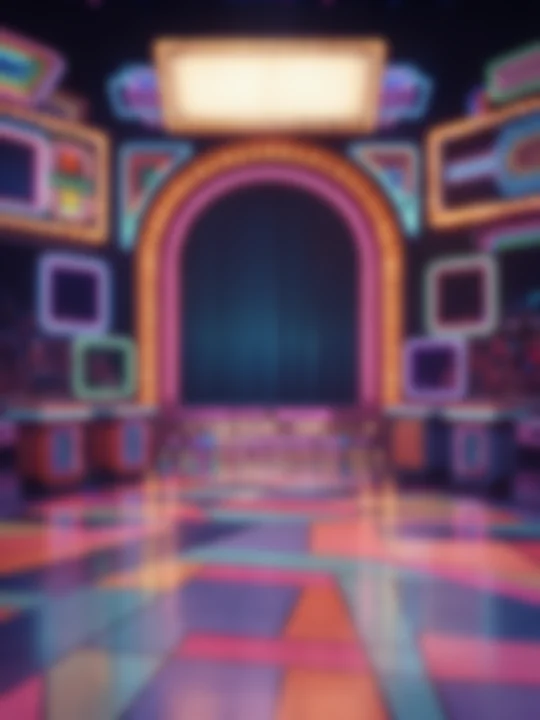
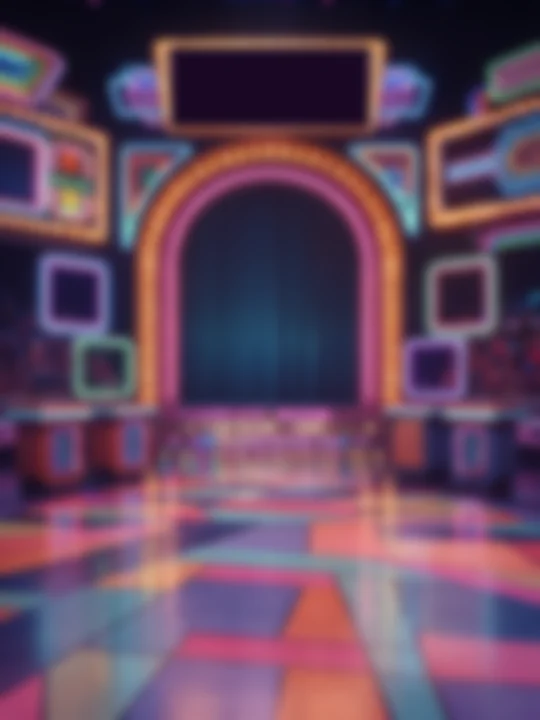
Run 3 item 4, the stage on every screen (the table is in DESIGN.md 'The stage'): landing and menu - close, with a soft scrim where the text and buttons sit; cold open - wide while the curtain opens, then a push in on close as the host walks out (FLIPSTAX on the marquee); act cards and the finale car

Changed region(s): [[0.2963, 0.0306, 0.7111, 0.1833]]

diff --git a/lib/stage.css b/lib/stage.css
@@ -54,3 +54,34 @@
 :root.lite .stg-plate, :root.lite .stg-glow, :root.lite .stg-sweep{ animation:none !important; }
 :root.lite .stg-sweep{ display:none; }
 @media (prefers-reduced-motion: reduce){ .stg-plate, .stg-glow, .stg-sweep{ animation:none !important; } .stg-sweep{ display:none; } }
+
+/* ---- The scenes (DESIGN.md "The stage" has the table). The stage paints just under the overlay it backs
+   (.stage-backed), so that overlay's own set and backdrop step aside; its buttons, cards and text stay as they were. */
+/* landing and menu: the close shot, with a soft scrim at the top and bottom where the text and buttons sit */
+:root.stage-on .home-overlay.stage-backed, :root.stage-on .split-select-overlay.stage-backed{
+  background:linear-gradient(180deg, rgba(14,4,30,0.5) 0%, rgba(14,4,30,0.12) 34%, rgba(14,4,30,0.08) 55%, rgba(14,4,30,0.55) 100%) !important; }
+:root.stage-on .stage-backed > .studio{ display:none; }
+:root.stage-on .show-card.stage-backed{ background:transparent !important; }
+/* the cold open (wide, then a push on the close shot), the act cards (close, the act on the marquee), the Mystery Game
+   door (close): their drawn studio, the act card's dimming scrim and colour sweeps step aside */
+:root.stage-on .show-card.stage-backed .co-studio, :root.stage-on .show-card.stage-backed .mr-studio,
+:root.stage-on .show-card.stage-backed .cue-stage{ display:none; }
+:root.stage-on .show-card.cue.stage-backed:not(.finale)::before{ display:none; }
+:root.stage-on .show-card.cue.stage-backed .cue-wipe > .bg{ opacity:0.85; }
+/* results and the outro: the wide shot under a scrim, so the score panel reads as before */
+:root.stage-on #readoutOverlay.stage-backed{ background:linear-gradient(180deg, rgba(14,4,30,0.5), rgba(14,4,30,0.3) 40%, rgba(14,4,30,0.6)) !important; }
+:root.stage-on #readoutOverlay.stage-backed .warp-bg{ display:none; }
+:root.stage-on .fin-overlay.stage-backed{ background:linear-gradient(180deg, rgba(14,4,30,0.62), rgba(14,4,30,0.45) 40%, rgba(14,4,30,0.7)) !important; }
+
+/* gameplay: the dim shot. The VS screen and the Daily question rounds show the stage layer itself (the world layer
+   above it goes clear); the full-screen game overlays paint the same picture as their own backdrop (the same crop,
+   so nothing jumps), with the same scrim and vignette. Orbit Drop keeps its own look. */
+:root.stage-on .show-bg{ background:none !important; }
+:root.stage-on .show-bg > .rays, :root.stage-on .show-bg > .glow{ display:none; }
+:root.stage-on :is(.mg-overlay, .lucky-overlay, .ir-overlay, .guess-overlay, .solve-overlay, .riddle-overlay),
+:root.stage-on.mode-infinity .event-overlay{
+  background:radial-gradient(120% 90% at 50% 42%, rgba(8,2,20,0) 40%, rgba(8,2,20,0.65) 100%), linear-gradient(rgba(10,3,24,0.55), rgba(10,3,24,0.55)),
+    url(../data/stage/stage-dim.webp) 50% 30% / cover no-repeat, #12062a !important; }
+:root.stage-on :is(.mg-overlay, .ir-overlay, .guess-overlay, .solve-overlay, .event-overlay, .riddle-overlay) :is(.mg-bg, .ir-bg, .guess-bg, .warp-bg, .ev-bg){ background:none !important; }
+:root.stage-on :is(.mg-overlay, .ir-overlay, .guess-overlay, .solve-overlay, .event-overlay, .riddle-overlay) :is(.mg-bg, .ir-bg, .guess-bg, .warp-bg, .ev-bg) > :is(.rays, .glow){ display:none; }
+:root.stage-on .mg-overlay .mg-bg{ display:none; }

diff --git a/flipstax.html b/flipstax.html
@@ -11193,10 +11193,11 @@
     showCard.classList.remove('hidden');
     showCard.setAttribute('role', 'button'); showCard.setAttribute('aria-label', 'Welcome to FlipStax, episode ' + ep + '. Tap to skip');
     showCard.querySelectorAll('.co-sign .sign-bulbs').forEach(b=> ringBulbs(b, 22, 8));
+    if (window.Stage){ Stage.loadWide(); Stage.cue('wide', { over:showCard, cls:'curtain', sign:{ sub:'WELCOME TO', main:'FLIPSTAX' } }); }   // Run 3: the wide shot, then a push in
     const timers = [], later = (ms, f)=> timers.push(setTimeout(f, ms));
     const sign = (cls, on)=>{ const el = showCard.querySelector('.co-sign.' + cls); if (!el) return; el.classList.toggle('on', on); el.classList.toggle('off', !on); };
     later(T.open, ()=>{ showCard.classList.add('open'); if (sfx.bumper) sfx.bumper(false); });
-    later(T.walk, ()=> showCard.classList.add('walk'));
+    later(T.walk, ()=>{ showCard.classList.add('walk'); if (window.Stage) Stage.cue('close', { over:showCard, cls:'curtain', push:true, ms: total - T.walk + 600, sign:{ main:'FLIPSTAX' } }); });   // (the plates below carry the welcome and the episode)
     later(T.s1, ()=>{ sign('w1', true); sfx.chime(4); sfx.chime(6); });
     later(T.s1off, ()=> sign('w1', false));
     later(T.s2, ()=>{ sign('w2', true); sfx.chime(5); sfx.chime(7); });
@@ -11234,6 +11235,7 @@
     showCard.querySelector('.cc-title').textContent = st.title || '';
     showCard.removeAttribute('role'); showCard.setAttribute('aria-label', (st.sub ? st.sub + ': ' : '') + (st.title || ''));
     showCard.classList.remove('hidden');
+    if (window.Stage) Stage.cue('close', { over:showCard, cls:'cue', push:true, ms: cine(TIMING.ACT_CARD_HOLD + (fin ? 300 : 0)), sign:{ sub: st.sub || '', main: st.title || '' } });   // Run 3: the act on the marquee
     clearTimeout(hostSayT); document.getElementById('showSay').classList.remove('on'); document.documentElement.classList.remove('host-say');
     if (sfx.bumper) sfx.bumper(!!st.finale);
     if (fin) setTimeout(()=> sfx.drumrollLong(), 500);   // the finale: a long drumroll under the spotlight
@@ -11310,6 +11312,7 @@
     showCard.classList.remove('hidden');
     clearTimeout(hostSayT); document.getElementById('showSay').classList.remove('on'); document.documentElement.classList.remove('host-say');
     ringBulbs(showCard.querySelector('.mr-frame .sign-bulbs'), 22, 7);
+    if (window.Stage){ const a = runActive ? runAct() : {}; Stage.cue('close', { over:showCard, cls:'mreveal', push:true, ms: cine(TIMING.MYSTERY_REVEAL_HOLD), sign:{ sub: a.sub || '', main: a.title || 'MYSTERY GAME' } }); }   // Run 3
     const rm = prefersReducedMotion();
     if (!rm) sfx.drumroll(520);
     (runActive ? showLater : setTimeout)(()=>{ showCard.classList.add('open'); sfx.slam(); playTone(523, 0.05, 0.12, 'triangle', 0.08); playTone(784, 0.15, 0.25, 'triangle', 0.08); }, rm ? 0 : 560);

diff --git a/lib/stage.js b/lib/stage.js
@@ -65,7 +65,7 @@
     if (vis(home)) return { shot:'close', over:home, sign:epSign };
     if (ro && ro.classList.contains('show')) return { shot:'wide', over:ro, sign:{ sub:'THAT’S OUR SHOW', main:'SEE YOU TOMORROW' } };
     if (vis(fin) && vis($('finComplete'))) return { shot:'wide', over:fin, sign:{ sub:'THAT’S OUR SHOW', main:'FINAL SCORE' } };
-    if (vis(menu)) return { shot:'close', over:menu, sign:epSign };
+    if (vis(menu)) return { shot:'close', over:menu, sign:null };   // (the menu says the episode itself, right under the sign)
     const r = document.documentElement.classList;
     if (r.contains('mode-daily') || r.contains('mode-infinity')) return { shot:'dim', over:null, z:-3 };
     return { shot:'close', over:null, z:-5, sign:epSign };
@@ -82,12 +82,12 @@
     });
   }
   function apply(d){
+    if (d.shot === 'wide') loadWide();
     const want = d.shot === 'wide' && wideState !== 'ready' ? 'close' : d.shot;   // (the wide shot until it has loaded)
     const z = d.over ? (parseInt(getComputedStyle(d.over).zIndex, 10) || 0) : d.z;
-    if (cur.over !== d.over){
-      if (cur.over) cur.over.classList.remove('stage-backed');
-      if (d.over) d.over.classList.add('stage-backed');
-    }
+    if (cur.over && cur.over !== d.over) cur.over.classList.remove('stage-backed');
+    // (re-added whenever it is missing: a cinematic that sets the card's className afresh wipes it)
+    if (d.over && !d.over.classList.contains('stage-backed')) d.over.classList.add('stage-backed');
     if (z !== cur.z) el.style.zIndex = z;
     if (want !== cur.shot){
       Object.keys(shots).forEach(n=> shots[n].classList.toggle('on', n === want));
@@ -122,14 +122,15 @@
         ready = true; document.documentElement.classList.add('stage-on'); apply(desired());
       }, ()=>{ /* no stage: every screen keeps its own backdrop */ });
     },
-    // A cinematic's shot while `over` is up: Stage.cue('close', { over, sign:{ sub, main }, push:true, ms }).
+    // A cinematic's shot while `over` is up: Stage.cue('close', { over, cls, sign:{ sub, main }, push:true, ms }).
     cue(shot, opts){
       if (!el) return;
       opts = opts || {};
       const over = opts.over || null;
       if (over) watch(over);
       cue = { shot, over, z: opts.z, sign: opts.sign || null, push: !!opts.push, ms: opts.ms, id: ++cueN,
-        until: opts.until || (()=> over ? vis(over) : false) };
+        // (while `over` is up - and still showing this cinematic: `cls`, since the card is reused straight away by the next one)
+        until: opts.until || (()=> !!over && vis(over) && (!opts.cls || over.classList.contains(opts.cls))) };
       if (shot === 'wide') loadWide();
       if (ready) apply(desired());
     },

diff --git a/tools/run3-shots.py b/tools/run3-shots.py
@@ -17,18 +17,18 @@ SCREENS = [
   ('Cold open', 1.2, 'coldopen-start', 'daily'),
   ('Cold open', 5.5, 'coldopen-host', 'daily'),
   ('Cold open', 9.0, 'coldopen-episode', 'daily'),
-  ('Act 1 card', 1.6, 'act1-card', 'daily'),
+  ('Act 1 card', 2.6, 'act1-card', 'daily'),
   ('VS card', 2.2, 'vs-card', 'daily'),
   ('Brain Beam', 3.0, 'brain-beam', 'daily'),
-  ('Riddle', 1.9, 'mystery-door', 'daily'),
+  ('Riddle', 2.5, 'mystery-door', 'daily'),
   ('Riddle', 5.0, 'riddle', 'daily'),
   ('Crowd Scan', 5.5, 'crowd-scan', 'daily'),
   ('Cosmic Surprise', 2.6, 'cosmic-intro', 'daily'),
   ('Cosmic Surprise', 7.5, 'cosmic-prize', 'daily'),
   ('Commercial (off)', 2.8, 'commercial', 'daily'),
-  ('Act 2 card', 1.6, 'act2-card', 'daily'),
+  ('Act 2 card', 2.6, 'act2-card', 'daily'),
   ('Portal Pick', 3.0, 'portal-pick', 'daily'),
-  ('Act 3 card', 1.6, 'act3-card', 'daily'),
+  ('Act 3 card', 2.6, 'act3-card', 'daily'),
   ('Lucky Lights', 3.0, 'lucky-lights', 'daily'),
   ('Price Probe', 5.0, 'price-probe', 'daily'),
   ('Oddball Alert', 5.0, 'oddball-alert', 'daily'),
@@ -40,8 +40,8 @@ SCREENS = [
   ('Twin Flip', 5.5, 'twin-flip', 'daily'),
   ('Fact or Fib', 5.5, 'fact-or-fib', 'daily'),
   ('Saucer Shuffle', 5.5, 'saucer-shuffle', 'daily'),
-  ('Grand finale (6 letters)', 1.6, 'finale-card', 'daily'),
-  ('Grand finale (6 letters)', 5.5, 'word-warp', 'daily'),
+  ('Grand finale (6 letters)', 2.6, 'finale-card', 'daily'),
+  ('Grand finale (6 letters)', 6.5, 'word-warp', 'daily'),
   ('Orbit Drop', 2.5, 'orbit-drop', 'daily'),
   ('Results (sample)', 3.0, 'results', 'daily'),
   ('Orbit Drop (5 chips)', 2.5, 'inf-orbit-drop', 'infinity'),

diff --git a/tools/build-art.py b/tools/build-art.py
@@ -116,7 +116,13 @@ def main():
         print('%-16s sign %s' % (stem, sign_box(im, dark=(shot == 'wide'))))
         out = os.path.join(ROOT, 'data/stage', stem + '.webp'); q = save_webp(im, out, kb); made.append((out, q))
         if shot == 'close':   # the dim shot: the close shot pre-blurred (about 6 CSS px on a phone), so no live blur filter runs
-            dim = im.filter(ImageFilter.GaussianBlur(10)).resize((im.width // 2, im.height // 2), Image.LANCZOS)
+            # (the cream sign is darkened first, as lib/stage.css darkens it on the close shot)
+            sb = sign_box(im, dark=False); base = im.copy()
+            if sb:
+                from PIL import ImageDraw
+                W, H = im.size
+                ImageDraw.Draw(base).rectangle(((sb['x'] - 0.8) * W / 100, (sb['y'] - 0.9) * H / 100, (sb['x'] + sb['w'] + 0.8) * W / 100, (sb['y'] + sb['h'] + 0.9) * H / 100), fill=(26, 7, 37))
+            dim = base.filter(ImageFilter.GaussianBlur(10)).resize((im.width // 2, im.height // 2), Image.LANCZOS)
             out = os.path.join(ROOT, 'data/stage', 'stage-dim.webp'); q = save_webp(dim, out, 60); made.append((out, q))
     # host poses: lift all, then one shared crop box
     lifted = {pose: lift(find(pose))[0] for pose in HOST if find(pose)}

diff --git a/DESIGN.md b/DESIGN.md
@@ -95,6 +95,58 @@ act pill) -> **host zone** (rule line, or the game's own stage host) -> **play a
 score chip), inside the safe areas. The background is `--game-bg`: `style-board/assets/bg-<game>.png` when that
 file exists, otherwise a gradient in the game's world plus a pattern, so no screen is ever empty.
 
+## The stage
+
+The show happens on one photo set - `data/stage/` (built by `tools/build-art.py` from the big renders, which stay
+out of git) - shown by `lib/stage.js` / `lib/stage.css` in three camera shots:
+
+| Shot | Picture | Motion | For |
+|---|---|---|---|
+| `close` | `stage-close.webp`, 3:4 portrait crop on the arch, 1080 px | a slow push-in 1.00 -> 1.06 over the scene | reveals |
+| `wide` | `stage-wide.webp`, the whole set, 1600 px | a slow pan from one end of the stage to the other | establishing shots, the end |
+| `dim` | `stage-dim.webp`, the close shot pre-blurred (about 6 CSS px), 540 px | none | every gameplay screen |
+
+A camera cut is a 600 ms crossfade. Only transform and opacity move; a slow light sweep and a glow pulse give the
+close and wide shots some life. Lite mode and reduced motion: still pictures (cuts still crossfade). The close shot is
+preloaded, the dim one loads at once, the wide one lazily from the cold open. If the pictures cannot load, nothing
+changes: `:root.stage-on` is only set once they have.
+
+### Scene -> shot
+
+| Scene | Shot | Marquee text |
+|---|---|---|
+| Landing | close | TONIGHT'S SHOW / EPISODE n (mostly behind the logo sign) |
+| Menu | close | none (the menu says the episode itself) |
+| Cold open | wide while the curtain opens, then a push in on close as the host walks out | WELCOME TO / FLIPSTAX, then FLIPSTAX |
+| Act cards (and the grand finale card) | close, pushing in | the act: ACT 1 / THE OPENER, ACT 3 · POINTS ×3 / LIGHTNING ROUND ... |
+| Mystery Game door reveal | close, pushing in | the act |
+| Results (Daily), the Infinity run-complete screen (the outro) | wide | THAT'S OUR SHOW / SEE YOU TOMORROW (or FINAL SCORE) |
+| VS cards, Brain Beam, the riddle, Portal Pick, Cosmic Surprise, Crowd Scan, Lucky Lights, Word Warp, the older Mystery Games and the six new mini-games | dim | - |
+| Orbit Drop, the Vault, the commercial, the round bumpers, the disco | their own looks (no stage) | - |
+
+The game cues only the cinematics (`Stage.cue('close', { over, cls, push, ms, sign })`); everything else the stage
+works out from the screen on top. Behind a full-screen overlay the stage takes that overlay's z-index and paints just
+under it (the overlay gets `.stage-backed`, which clears its own backdrop); behind gameplay it sits at z -3 under the
+show's world layer, which goes clear. The full-screen game overlays paint the same dim picture as their own backdrop
+(same crop, so nothing jumps).
+
+### The marquee
+
+The blank sign above the arch is found in each picture (`tools/build-art.py`; `Stage.SIGN`, in percent of the
+picture) and the live text sits on it at any crop (`tools/stage-sign-check.py`). The close shot's cream panel is
+darkened to match the wide shot's dark sign. Text: Big Shoulders 900, uppercase; the main line white with a pink neon
+glow, an optional gold sub line above it. One or two short lines - the act, the episode, a sign-off - never a sentence.
+
+### Scrim rules (legibility first)
+
+- **dim**: a scrim of at least 45% (it is 55%) plus a vignette over the blurred picture; the sign is darkened in the
+  picture too. Worst case, the brightest spot of the dim shot gives white text 7.7:1 (5.9:1 at the 45% floor) - never
+  below 4.5:1.
+- Landing and menu: a soft scrim at the top and the bottom where the text and buttons sit, the middle clear for the set.
+- Results and outro: a 30-60% scrim over the wide shot; the score panel itself is unchanged.
+- The stage never sits in front of anything: buttons, cards, timers and text keep their own panels and colours,
+  and no game screen's layout moves for it.
+
 ## The host
 
 One host per screen (the disco celebration is the only exception). Every host is a **rig** from `lib/host.js`:
